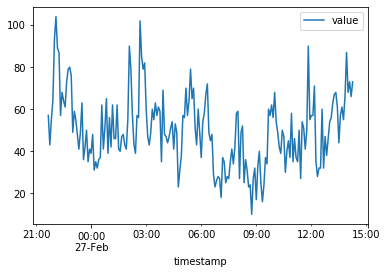
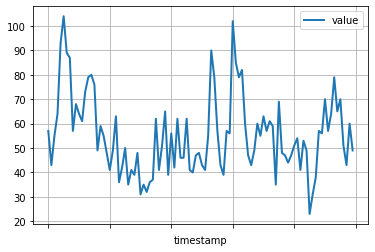
update quick example, add links to examples

Changed region(s): [[0.0, 0.0, 0.9973, 0.9722]]

diff --git a/README.md b/README.md
@@ -38,17 +38,20 @@ df = pd.read_csv(url, header=0, index_col=0)
 The first 200 data points look like follows:
 
 ```python
-df[:200].plot()
+import matplotlib.pyplot as plt
+df[:100].plot(linewidth=2)
+plt.grid(which='both')
+plt.show()
 ```
 
 ![Data](/figures/Tweets_AMZN_data.png)
 
 We can now prepare a training dataset for our model to train on.
 Datasets in GluonTS are essentially iterable collections of
-dictionaries: each dictionary represents an *item*, that is a time series
+dictionaries: each dictionary represents a time series
 with possibly associated features. For this example, we only have one
-item, specified by the `"start"` field which is the timestamp of the
-first datapoint, and the `"target"` field containing time series.
+entry, specified by the `"start"` field which is the timestamp of the
+first datapoint, and the `"target"` field containing time series data.
 For training, we will use data up to midnight on April 5th, 2015.
 
 ```python
@@ -68,16 +71,16 @@ and we will train a model to predict the next hour, so `prediction_length=12`.
 We also specify some minimal training options.
 
 ```python
-from gluonts.model.ar2n2 import AR2N2Estimator
+from gluonts.model.deepar import DeepAREstimator
 from gluonts.trainer import Trainer
 
-estimator = AR2N2Estimator(freq="5min", prediction_length=12, trainer=Trainer(epochs=10))
+estimator = DeepAREstimator(freq="5min", prediction_length=12, trainer=Trainer(epochs=10))
 predictor = estimator.train(training_data=training_data)
 ```
 
 During training, useful information about the progress will be displayed.
 To get a full overview of the available options, please refer to the
-documentation of `AR2N2Estimator` (or other estimators) and `Trainer`.
+documentation of `DeepAREstimator` (or other estimators) and `Trainer`.
 
 We're now ready to make predictions: we will forecast the hour following
 the midnight on April 15th, 2015, and compare it to what was actually
@@ -89,11 +92,12 @@ test_data = ListDataset(
     freq = "5min"
 )
 
-df.set_index(pd.to_datetime(df.index)).resample("5min").sum()\
-    ["2015-04-14 21:00:00":"2015-04-15 00:55:00"].plot()
+from gluonts.dataset.util import to_pandas
 
-for forecast in predictor.predict(test_data):
-    forecast.plot(confidence_intervals=[50., 90.])
+for test_entry, forecast in zip(test_data, predictor.predict(test_data)):
+    to_pandas(test_entry)[-60:].plot(linewidth=2)
+    forecast.plot(color='g', confidence_intervals=[50., 90.])
+plt.grid(which='both')
 ```
 
 ![Forecast](/figures/Tweets_AMZN_forecast.png)
@@ -107,5 +111,7 @@ centered around the median (dark blue line).
 The following modules are good entry-points to understand how to use
 other features of GluonTS:
 
-* `gluonts.model.seasonal_naive`: how to implement simple models using just NumPy and Pandas.
-* `gluonts.model.simple_feedforward.estimator`: how to define a Gluon model.
+* [`examples.evaluate_model`](examples/evaluate_model.py): how to train a model and compute evaluation metrics.
+* [`examples.benchmark_m4`](examples/benchmark_m4.py): how to evaluate and compare multiple models on multiple datasets. 
+* [`gluonts.model.seasonal_naive`](gluonts/model/seasonal_naive): how to implement simple models using just NumPy and Pandas.
+* [`gluonts.model.simple_feedforward`](gluonts/model/simple_feedforward): how to define a trainable, Gluon-based model.
